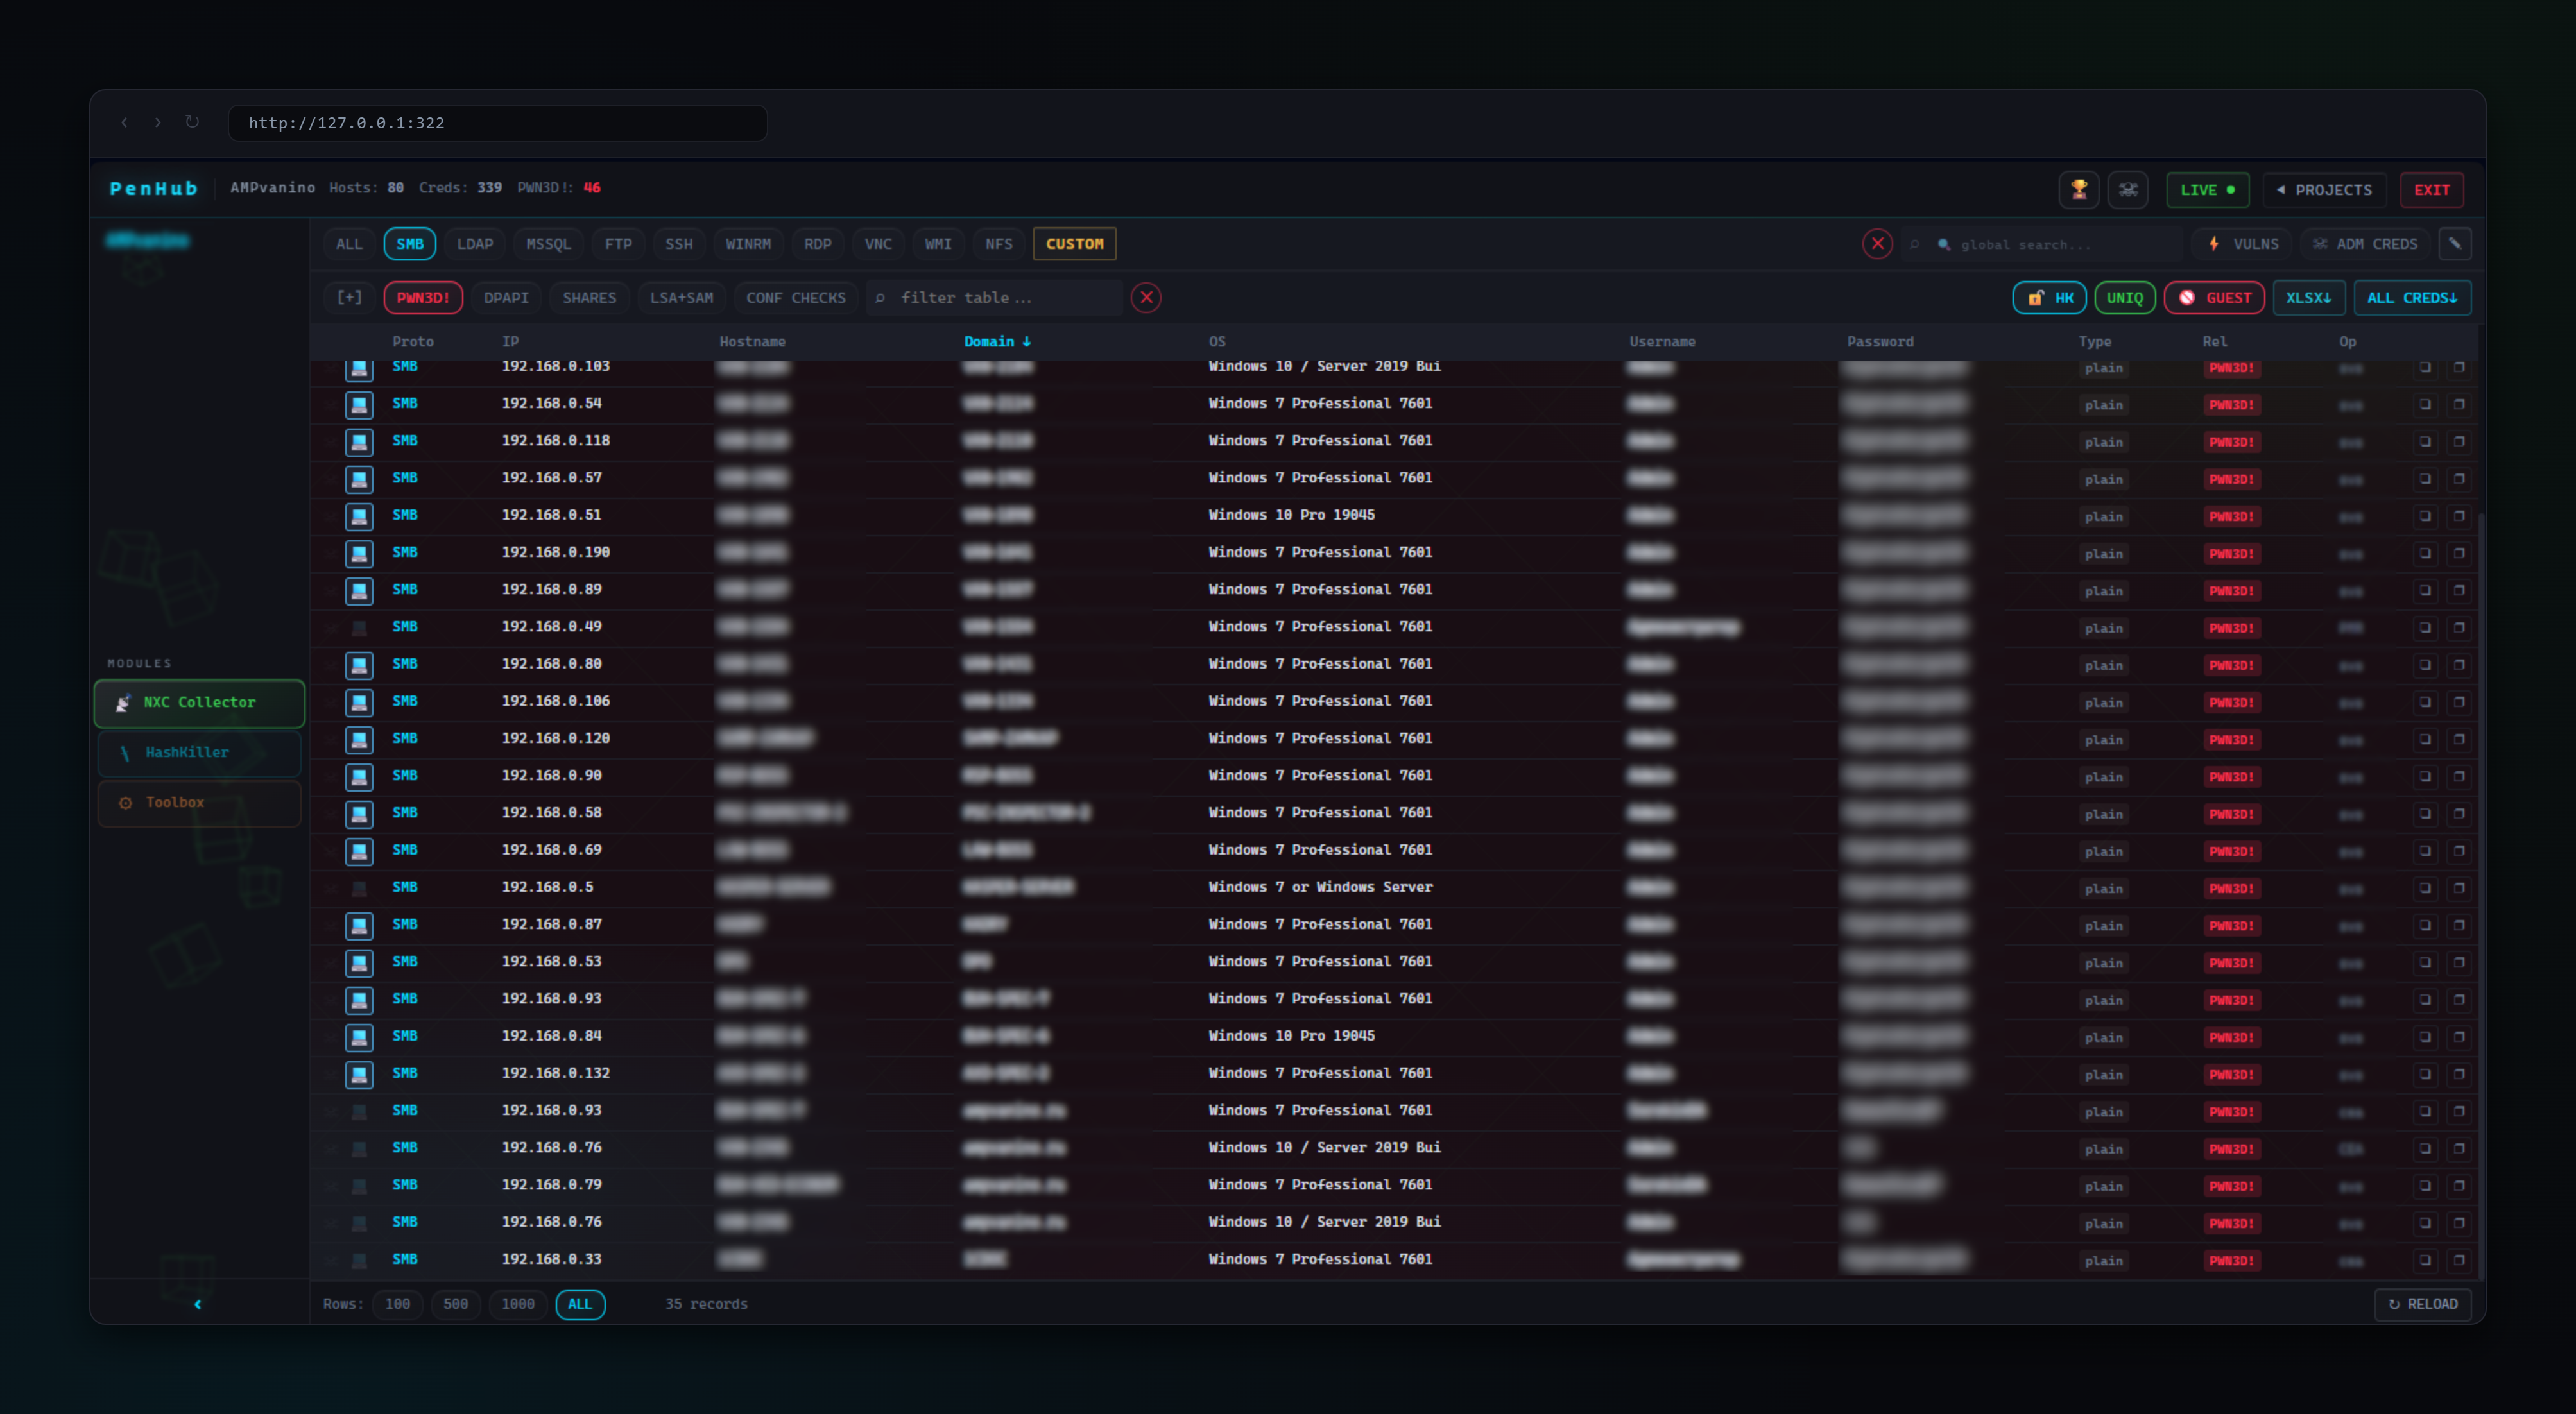
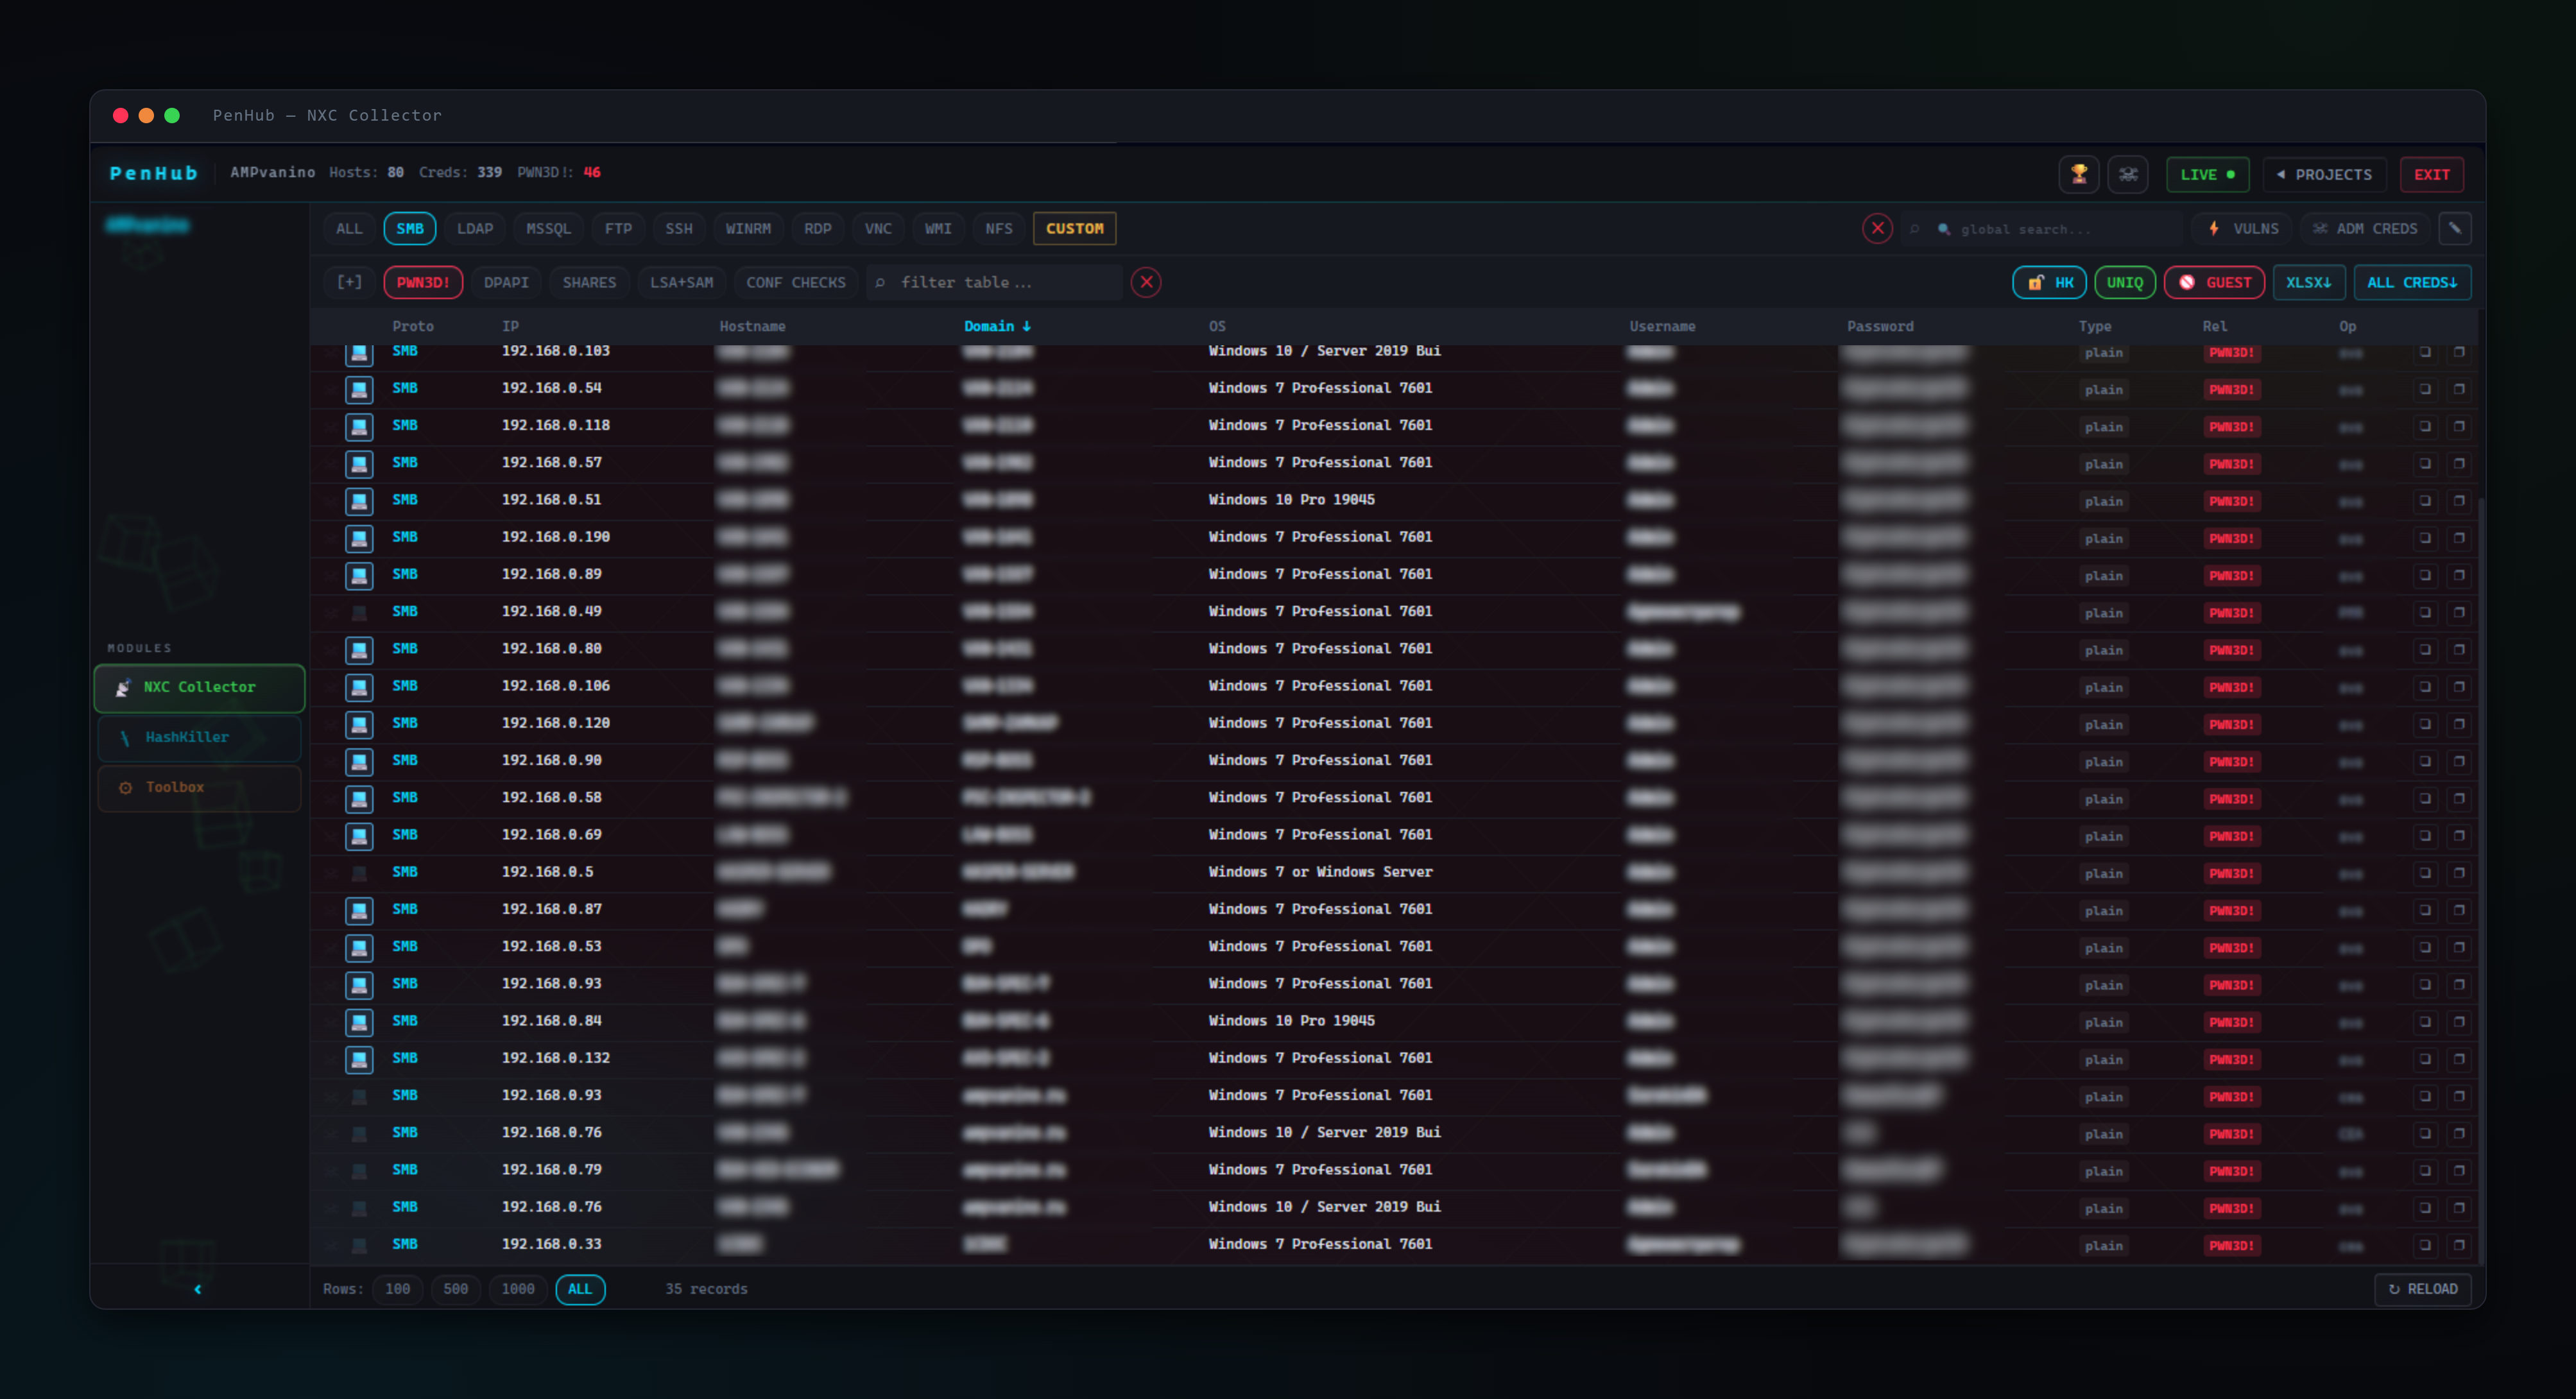
roll back

diff --git a/wiki/rus/Wiki - оглавление.md b/wiki/rus/Wiki - оглавление.md
@@ -3,30 +3,30 @@
 PenHub — платформа агрегации данных полученных в процессе пентеста, с помощью [NetExec](https://github.com/Pennyw0rth/NetExec). 
 
 **Начало**
-- [Быстрый старт](Быстрый%20старт.md)
-- [Понятия и глоссарий](Понятия%20и%20глоссарий.md)
-- [Пример работы](Пример%20работы.md)
+- [Быстрый старт](usage/Быстрый%20старт.md)
+- [Понятия и глоссарий](reference/Понятия%20и%20глоссарий.md)
+- [Пример работы](usage/Пример%20работы.md)
 
 **Установка**
-- [Установка — Сервер](Установка%20—%20Сервер.md)
-- [Установка — Клиент оператора](Установка%20—%20Клиент%20оператора.md)
+- [Установка — Сервер](install/Установка%20—%20Сервер.md)
+- [Установка — Клиент оператора](install/Установка%20—%20Клиент%20оператора.md)
 
 **Модули и отдельный функционал**
-- [Модуль — NXC Collector](Модуль%20—%20NXC%20Collector.md)
-- [Модуль — HashKiller](Модуль%20—%20HashKiller.md)
-- [Модуль — Toolbox](Модуль%20—%20Toolbox.md)
-- [Уведомления](Уведомления.md)
-- [Экспорты](Экспорты.md)
+- [Модуль — NXC Collector](modules/Модуль%20—%20NXC%20Collector.md)
+- [Модуль — HashKiller](modules/Модуль%20—%20HashKiller.md)
+- [Модуль — Toolbox](modules/Модуль%20—%20Toolbox.md)
+- [Уведомления](usage/Уведомления.md)
+- [Экспорты](usage/Экспорты.md)
 
 **Внутренние механизмы**
-- [Архитектура](Архитектура.md)
+- [Архитектура](reference/Архитектура.md)
 
 **Справочник**
-- [Справочник по скриптам оператора](Справочник%20по%20скриптам%20оператора.md)
-- [Адаптация к смене схемы БД NetExec](Адаптация%20к%20смене%20схемы%20БД%20NetExec.md)
-- [Справочник по функционалу VULNS](Справочник%20по%20функционалу%20VULNS.md)
-- [Описание уязвимостей и их устранение](Описание%20уязвимостей%20и%20их%20устранение.md)
-- [Решение проблем и FAQ](Решение%20проблем%20и%20FAQ.md)
+- [Справочник по скриптам оператора](reference/Справочник%20по%20скриптам%20оператора.md)
+- [Адаптация к смене схемы БД NetExec](reference/Адаптация%20к%20смене%20схемы%20БД%20NetExec.md)
+- [Справочник по функционалу VULNS](vulns/Справочник%20по%20функционалу%20VULNS.md)
+- [Описание уязвимостей и их устранение](vulns/Описание%20уязвимостей%20и%20их%20устранение.md)
+- [Решение проблем и FAQ](meta/Решение%20проблем%20и%20FAQ.md)
 
 # PenHub
 
@@ -35,7 +35,7 @@ PenHub — платформа агрегации данных полученны
 
 Работает как self-hosted сервер, который вы разворачиваете во внутренней/рабочей сети. Операторы на своих машинах запускают небольшой клиентский скрипт, который по api отправляет данные из баз данных nxc на ваш локальный сервер, при этом забирает обратно актуальную копию данных, полученных от других операторов.
 
-![[hero-project-view.png]]
+![](../images/hero-project-view.png)
 ---
 
 ## Какую задачу решает?

diff --git a/wiki/rus/modules/Модуль — NXC Collector.md b/wiki/rus/modules/Модуль — NXC Collector.md
@@ -2,7 +2,7 @@
 
 Главный модуль системы. Отображает, сортирует, фильтрует и управляет всем, что накоплено в рамках проекта.
 
-![[nxc-overview-annotated.png]]
+![](../../images/nxc-overview-annotated.png)
 
 ---
 
@@ -31,9 +31,9 @@
 Также в ряду 1:
 - **✏ MANAGE** — переключает модуль в состояние Manage Mode (ниже).
 - **Глобальный поиск** — contains-поиск сразу по *всей* БД проекта (все поля всех таблиц, кроме числовых ID и булевых флагов). При активации сбрасывает выбранный протокол и фильтры. Колонки результата: *(тип)* · Protocol · IP · Login · Password · Matched in · Details. Рядом кнопка сброса протокола, фильтров и поиска (переключатели GUEST / UNIQ / HK-bruted  *не* сбрасываются).
-- **CUSTOM** —  отображение учетных записей, добавленных с помощью модуля Toolbox, см. [[Модуль — Toolbox]].
+- **CUSTOM** —  отображение учетных записей, добавленных с помощью модуля Toolbox, см. [Модуль — Toolbox](Модуль%20—%20Toolbox.md).
 
-![[nxc-filters.png]]
+![](../../images/nxc-filters.png)
 ### Ряд 2 — фильтры (динамические)
 
 Кнопки фильтров меняются в соответствии с протоколом.
@@ -61,7 +61,7 @@
 - **Сортировка** — клик по заголовку колонки (A→Z / Z→A).
 - **Reload** – принудительное обновление табличных данных (применительно, когда LIVE-автообновление выключено).
 
-![[nxc-copy.png]]
+![](../../images/nxc-copy.png)
 
 ---
 
@@ -78,7 +78,7 @@
 
 Watchlist администраторов домена, загружаются в **[Модуль — Toolbox](Модуль%20—%20Toolbox.md)** (Domain Admin Watchlist).
 
-![[nxc-mark-as-domain-adm.png]]
+![](../../images/nxc-mark-as-domain-adm.png)
 
 ---
 
@@ -88,12 +88,12 @@ Watchlist администраторов домена, загружаются в
 
 Фильтры сгруппированы: **REMOTE** (SMBv1, Signing OFF, Spooler, MS17-010, SMBGhost, PrintNightmare, WebDAV, noPac, Zerologon), **COERCE** (PetitPotam, PrinterBug, DFSCoerce, ShadowCoerce) и **ADMIN-ONLY** проблемы конфигурации (WDigest, NTLMv1, RunAsPPL, UAC). Кнопка **AND**, при активации комбинирует выбранные фильтры по логике И (добавляет данные к выдаче).
 
-Что означает каждая уязвимость и как её устранить — см. **[Справочник по функционалу VULNS](Справочник%20по%20функционалу%20VULNS.md)** и **[Описание уязвимостей и их устранение](Описание%20уязвимостей%20и%20их%20устранение.md)**.
+Что означает каждая уязвимость и как её устранить — см. **[Справочник по функционалу VULNS](../vulns/Справочник%20по%20функционалу%20VULNS.md)** и **[Описание уязвимостей и их устранение](../vulns/Описание%20уязвимостей%20и%20их%20устранение.md)**.
 
 Пример, подготовка списка для relay-атак:
 
 *SMBv1* **AND** *Sighning OFF* **AND** *SPOOLER*:
-![[nxc-vulns-matrix.png]]
+![](../../images/nxc-vulns-matrix.png)
 ---
 
 ## Manage Mode ✏
@@ -118,9 +118,9 @@ Watchlist администраторов домена, загружаются в
 > Логика honeypot: после strike новые учетные записи, связанные со скрытым хостом, при будущих синхронизациях, автоматически скрываются. Учетные записи, индивидуально восстановленные кнопкой **+**, не трогаются.
 
 
-![[nxc-manage-mode.png]]
+![](../../images/nxc-manage-mode.png)
 
-![[nxc-manage-mode2.png]]
+![](../../images/nxc-manage-mode2.png)
 
 ---
 

diff --git a/wiki/rus/usage/Быстрый старт.md b/wiki/rus/usage/Быстрый старт.md
@@ -2,7 +2,7 @@
 
 ## 1. Запустить сервер
 
-На сервере (подробности — **[Установка — Сервер](Установка%20—%20Сервер.md)**):
+На сервере (подробности — **[Установка — Сервер](../install/Установка%20—%20Сервер.md)**):
 
 ```bash
 pip install fastapi uvicorn openpyxl
@@ -17,13 +17,13 @@ python3 server.py --host 0.0.0.0 --port 322 --password "StrongPasswordHere!"
 
 На странице **Projects** нажмите **+ NEW PROJECT** и введите имя (например, `organisationX`). Проект — это изолированный воркспейс; данные между проектами не пересекаются.
 
-![[projects-page.png]]
+![](../../images/projects-page.png)
 
 ---
 
 ## 3. Подключить оператора
 
-На машине оператора возьмите скрипты и конфиг из **Toolbox → Блок 3** (см. **[Установка — Клиент оператора](Установка%20—%20Клиент%20оператора.md)**), затем:
+На машине оператора возьмите скрипты и конфиг из **Toolbox → Блок 3** (см. **[Установка — Клиент оператора](../install/Установка%20—%20Клиент%20оператора.md)**), затем:
 
 ```bash
 ./nxc_collector --install                 # ставит скрипты + cron, после перезапустите шелл
@@ -56,9 +56,9 @@ nxc_collector -upd
 - Строка протоколов: нажмите **SMB**, затем суб-вкладку **PWN3D!**, чтобы увидеть админ-сессии.
 - **ALL CREDS ↓** — выгрузить все уникальные учетные данные в XLSX.
 
-![[nxc-collector-pwn3d.png]]
+![](../../images/nxc-collector-pwn3d.png)
 
-Подробнее: **[Модуль — NXC Collector](Модуль%20—%20NXC%20Collector.md)**.
+Подробнее: **[Модуль — NXC Collector](../modules/Модуль%20—%20NXC%20Collector.md)**.
 
 ---
 
@@ -66,7 +66,7 @@ nxc_collector -upd
 
 Откройте **HashKiller** и нажмите **⚡ SMART ENRICH**. Каждый plaintext-пароль, с которым вы авторизовались в рамках данного проекта, локально хэшируется и добавляется в вашу глобальную базу хэшей — так встретив его NT-хэш еще раз где-либо он автоматически «подберется». Кнопка **🕽 KILL THEM ALL** подставит уже имеющиеся в базе plaintext для любого хэша проекта, который вам встретился.
 
-Подробнее: **[Модуль — HashKiller](Модуль%20—%20HashKiller.md)**.
+Подробнее: **[Модуль — HashKiller](../modules/Модуль%20—%20HashKiller.md)**.
 
 ---
 
@@ -74,7 +74,7 @@ nxc_collector -upd
 
 Откройте **Toolbox** → и нажмите **↓ DOWNLOAD ARCHIVE**. Скачается ZIP-архив с парными файлами целей/логинов/паролей/хэшей, готовыми к credential-спрею nxc (примеры команд смотрите в  **Toolbox** → How to use). 
 
-Подробнее: **[Модуль — Toolbox](Модуль%20—%20Toolbox.md)** и **[Пример работы](Пример%20работы.md)**.
+Подробнее: **[Модуль — Toolbox](../modules/Модуль%20—%20Toolbox.md)** и **[Пример работы](Пример%20работы.md)**.
 
 ---
 
@@ -82,4 +82,4 @@ nxc_collector -upd
 
 Сортировка столбцов с данными, копирование нужной ячейки по нажатию, умное копирование, скрытие honeypot, отслеживание администраторов и другие функции уже доступны в PenHub. Изучайте и находите свои сценарии применения.
 
-[[Wiki - оглавление]]
+[Wiki - оглавление](../Wiki%20-%20оглавление.md)

diff --git a/wiki/rus/modules/Модуль — Toolbox.md b/wiki/rus/modules/Модуль — Toolbox.md
@@ -2,8 +2,8 @@
 
 Набор утилиты, которые взаимодействуют с другими модулями: ручной импорт учетных данных, watchlist доменных админов, экспорт списков для credential-спреев и конфигурация окружения оператора.
 
-![[toolbox-overview1.png]]
-![[toolbox-overview2.png]]
+![](../../images/toolbox-overview1.png)
+![](../../images/toolbox-overview2.png)
 
 ---
 
@@ -19,7 +19,7 @@
 Поля шаблона: Proto · IP · Port · Domain · **Login** · **Password** · Type · URL · Source · Comment.
 **Login ИЛИ Password обязательны** (как минимум, что-то одно); остальные поля опциональны.
 
-![[toolbox-custom-template.png]]
+![](../../images/toolbox-custom-template.png)
 
 
 > Используйте это для добавления учетных данных, добытых вне nxc (веб, брут и пррочее). Для nt хешей применяется логика Hashkiller (нужно вписать hash в поле type импортируемого шаблона).
@@ -36,7 +36,7 @@
 
 Пока для имени из watchlist не найден пароль, оно показывается серой **ghost-строкой** в представлении ADM CREDS в NXC Collector. Кнопка **👻 CLEAR ADM GHOSTS** (в Manage Mode NXC Collector) удаляет ghost записи из watchlist.
 
-![[toolbox-watchlist.png]]
+![](../../images/toolbox-watchlist.png)
 
 ---
 
@@ -61,7 +61,7 @@
 
 ## Блок 3 — OPERATOR ENVIRONMENT CONFIG
 
-Все необходимое для подготовки окружения оператора к работе (см. **[Установка — Клиент оператора](Установка%20—%20Клиент%20оператора.md)**).
+Все необходимое для подготовки окружения оператора к работе (см. **[Установка — Клиент оператора](../install/Установка%20—%20Клиент%20оператора.md)**).
 
 - **↓ DOWNLOAD SCRIPTS** — ZIP с `nxc_collector`, `nxce.py`, `nxc_updater.py`, `collector_dc.py`, `collector_hosts.py`. 
 Установка : `./nxc_collector --install`, затем перезапустите терминал. 
@@ -73,5 +73,5 @@
   Поле **OPERATOR** обязательно; IP, порт, пароль и workspace подставляются автоматически с сервера.
 - **COPY BLOODHOUND CONFIG STRING** — формирует команду `--bh-setup` для BloodHound (bh-ip обязательно; bh-login по умолч. `neo4j`, bh-pass `bloodhoundcommunityedition`, bh-port `7687`, bh-enable `true`). Настройки BloodHound сохраняются на сервере.
 
-![[toolbox-config-string.png]]
+![](../../images/toolbox-config-string.png)
 

diff --git a/wiki/rus/reference/Понятия и глоссарий.md b/wiki/rus/reference/Понятия и глоссарий.md
@@ -35,7 +35,7 @@
 **Honeypot / Strike** — пометка хоста как honeypot («strike», делается в Manage Mode) скрывает его и все связанные с ним учетные записи и отмечает вновь появившиеся учетные записи на нём скрытыми при будущих синхронизациях. Используется, чтобы не забивать таблицу false-positive авторизациями. Индивидуально (построчно) восстановленные учетные записи повторно не скрываются, что позволяет выделить одну валидную среди множества false-positive.
 
 **Hidden (скрыто)** — флаг мягкого скрытия на учетных записях, хостах и записях DPAPI. Скрытые элементы исчезают из обычных представлений (и из pull оператора), но не удаляются; убрать их из скрытых можно в Manage Mode.
-Подробнее: **[Модуль — NXC Collector](Модуль%20—%20NXC%20Collector.md)**.
+Подробнее: **[Модуль — NXC Collector](../modules/Модуль%20—%20NXC%20Collector.md)**.
 
 ---
 
@@ -46,7 +46,7 @@
 **Warning-пара** — когда один и тот же хэш в базе каким либо образом сопоставлен двум разным plaintext, обе пары сохраняются с флагом `warning=true`, чтобы вы разрешили конфликт.
 
 **Хэш пустого пароля** — NT-хэш `31D6CFE0D16AE931B73C59D7E0C089C0` — это хэш пустого пароля. PenHub хранит его как литерал `<empty_password>` везде (и сервер, и сторона оператора нормализуют это одинаково). 
-Подробнее: **[Модуль — HashKiller](Модуль%20—%20HashKiller.md)**.
+Подробнее: **[Модуль — HashKiller](../modules/Модуль%20—%20HashKiller.md)**.
 
 
 ---
@@ -54,7 +54,7 @@
 ## Понятия об уязвимостях
 
 **Tri-state-находка** — каждая проверка уязвимости на хосте имеет одно из трёх состояний: **YES** (уязвимо), **no** (чисто) или **—** (нет данных / проверку не удалось выполнить). **`—` что по своей сути не означает «безопасно».**  
-Подробнее: **[Справочник по функционалу VULNS](Справочник%20по%20функционалу%20VULNS.md)**.
+Подробнее: **[Справочник по функционалу VULNS](../vulns/Справочник%20по%20функционалу%20VULNS.md)**.
 
 ---
 
@@ -76,4 +76,4 @@
 | **HashKiller**    | 🗡     | Глобальная база NTLM-хэш↔plaintext; взлом и обогащение.                                                      |
 | **Toolbox**       | ⚙      | Произвольные импорты, экспорт-списки для спрея, конфиг окружения оператора.                                  |
 
-Продолжить ознакомление: **[[Wiki - оглавление]]** 
+Продолжить ознакомление: **[Wiki - оглавление](../Wiki%20-%20оглавление.md)** 

diff --git a/wiki/rus/usage/Пример работы.md b/wiki/rus/usage/Пример работы.md
@@ -22,7 +22,7 @@
 
 ## Фаза 1 — Старт
 
-1. **Запустить/проверить сервер** — работает и доступен. (**[Установка — Сервер](Установка%20—%20Сервер.md)**)
+1. **Запустить/проверить сервер** — работает и доступен. (**[Установка — Сервер](../install/Установка%20—%20Сервер.md)**)
 2. **Создать проект** на странице Projects.
 3. **Операторам - скачать скрипты (при необходимости) + конфиг** из Toolbox (DOWNLOAD SCRIPTS + COPY CONFIG STRING).
 4. **Если есть** — **Добавить список Domain Admin Watchlist (из AD, например)**, используя Toolbox, чтобы PenHub их помечал и уведомлял, как только учетные данные найдутся.
@@ -35,7 +35,7 @@
 
 В браузере:
 - Следите за счётчиками в шапке и **колокольчиками уведомлений** 🏆 / ☠ по новым захватам и всплывающим доменным админам. (**[Уведомления](Уведомления.md)**)
-- Просматривайте учетные данные и хосты по протоколам; помечайте **доменных/локальных админов**; скрывайте при необходимости лишние хосты в Manage Mode. (**[Модуль — NXC Collector](Модуль%20—%20NXC%20Collector.md)**)
+- Просматривайте учетные данные и хосты по протоколам; помечайте **доменных/локальных админов**; скрывайте при необходимости лишние хосты в Manage Mode. (**[Модуль — NXC Collector](../modules/Модуль%20—%20NXC%20Collector.md)**)
 - Вносите учетные записи из внешних источников (полученные не из nxc) через Toolbox **Custom Import**.
 
 Для принудительной синхронизации: `nxc_collector -upd`.
@@ -51,7 +51,7 @@
 2. **🕽 KILL THEM ALL** — подставить plaintext соответствующим хэшам проекта.
 3. **↓ HASHES.TXT** → скачать файл с уникальными неподобранными хэшами, для hashcat → после подбора импортировать результаты в блок IMPORT HashKiller.
 
-Взломанный plaintext сразу появляется в NXC Collector (фильтр **HK-bruted**) и обогащает списки для спрея. (**[Модуль — HashKiller](Модуль%20—%20HashKiller.md)**)
+Взломанный plaintext сразу появляется в NXC Collector (фильтр **HK-bruted**) и обогащает списки для спрея. (**[Модуль — HashKiller](../modules/Модуль%20—%20HashKiller.md)**)
 
 ---
 
@@ -67,7 +67,7 @@
 
 ## Фаза 5 — Отчёт и завершение
 
-- Используйте экспорт XLSX по  **VULNS** и **[Описание уязвимостей и их устранение](Описание%20уязвимостей%20и%20их%20устранение.md)** как приложение к отчету по уязвимостям.
+- Используйте экспорт XLSX по  **VULNS** и **[Описание уязвимостей и их устранение](../vulns/Описание%20уязвимостей%20и%20их%20устранение.md)** как приложение к отчету по уязвимостям.
 - Выгрузите итоговую таблицу учетных данных (**ALL CREDS ↓**).
 - **Архивируйте** проект по завершении — это замораживает его (синхронизация больше не принимается) и автоматически запускает финальный SMART Enrich, чтобы найденные plaintext пароли сохранились в глобальной базе хэшей для будущих работ.
 - Проекты позже можно переместить в **Recycle** (мягкое удаление, имя зарезервировано) или в итоге окончательно удалить.

diff --git a/wiki/rus/install/Установка — Сервер.md b/wiki/rus/install/Установка — Сервер.md
@@ -35,7 +35,7 @@ python3 server.py --host 0.0.0.0 --port 322 --password "ВыберитеНадё
 
 Это всё. При первом старте сервер создаёт `collector.db`, `hashkiller.db` и каталог `hk_inbox/`, после слушает обращения.
 
-![[server-startup-terminal.png]]
+![](../../images/server-startup-terminal.png)
 
 ---
 
@@ -57,9 +57,9 @@ python3 server.py --host 0.0.0.0 --port 322 --password "ВыберитеНадё
 
 Откройте `http://<ip-сервера>:<порт>/` в браузере и введите ключ доступа.
 
-![[login-page.png]]
+![](../../images/login-page.png)
 
-После входа вы попадёте на страницу **Projects**. Создайте первый проект — см. **[Быстрый старт](Быстрый%20старт.md)**.
+После входа вы попадёте на страницу **Projects**. Создайте первый проект — см. **[Быстрый старт](../usage/Быстрый%20старт.md)**.
 
 ---
 

diff --git a/wiki/rus/modules/Модуль — HashKiller.md b/wiki/rus/modules/Модуль — HashKiller.md
@@ -7,7 +7,7 @@
 
 **Поля в БД:** `hash`, `plaintext`, `SMART` (bool), `warning` (bool). Верхняя полоса показывает три счётчика: **pairs** / **smart** / **⚠ warning**.
 
-![[hashkiller-overview.png]]
+![](../../images/hashkiller-overview.png)
 
 Страница состоит из четырёх блоков.
 
@@ -80,7 +80,7 @@
 - **Первичное построение — только один раз:** импорт словаря на **120 млн паролей** через **💥 RAM-KILLER** и построение индекса заняли **~6 часов на 32 ГБ RAM**.
 - **Каждый запуск после этого:** **🕽 KILL THEM ALL** — поиск и «расшифровка» по тем же **120 млн пар** — идёт со скоростью примерно **500 хэшей в секунду на SSD**. В рамках проекта мы получаем несколько тысяч хешей с домена или из lsa/sam и за несколько секунд перебираем все эти пары по словарю на 120 000 000 слов. 
 
-![[hashkiller-stat.png]]
+![](../../images/hashkiller-stat.png)
 
 ---
 

diff --git a/wiki/rus/reference/Архитектура.md b/wiki/rus/reference/Архитектура.md
@@ -17,7 +17,7 @@
 ```
 
 - **Сервер**: Python / FastAPI / SQLite (WAL) + ванильный JS-SPA. Без бандлера, без фреймворка, без сборки. Два файла SQLite.
-- **Клиент оператора**: три скрипта. Описаны в **[Установка — Клиент оператора](Установка%20—%20Клиент%20оператора.md)** и **[Справочник по скриптам оператора](Справочник%20по%20скриптам%20оператора.md)**.
+- **Клиент оператора**: три скрипта. Описаны в **[Установка — Клиент оператора](../install/Установка%20—%20Клиент%20оператора.md)** и **[Справочник по скриптам оператора](Справочник%20по%20скриптам%20оператора.md)**.
 
 ---
 
@@ -44,7 +44,7 @@ PenHub Shell
 
 UI lazy-модулей доставляется через `GET /api/shell/module/{id}/ui` (под авторизацией).
 
-![[shell-sidebar-modules.png]]
+![](../../images/shell-sidebar-modules.png)
 
 ---
 

diff --git a/wiki/rus/usage/Экспорты.md b/wiki/rus/usage/Экспорты.md
@@ -12,7 +12,7 @@
 
 Опция «UNIQ» дедуплицирует по `domain+login+password`, предпочитая plaintext хэшу и admin — loggedin. Фильтр **HK-bruted**, когда включён, подставляет известный plaintext вместо хэша перед экспортом — так в таблице оказываются взломанные пароли, а не хэши.
 
-![[export-allcred-xlsx.png]]
+![](../../images/export-allcred-xlsx.png)
 
 ---
 
@@ -66,4 +66,4 @@ nxce --brute ./spray      # пишет парные файлы логинов/п
 
 nxce позволяет делать гибкие выгрузки (по логину, паролю, ip-адресу и т.д.) изучите help.
 
-`nxce --brute` повторяет функционал `DOWNLOAD ARCHIVE` в Toolbox: пишет `logins_P_brut.txt` / `pass_for_brute.txt` (plaintext) и `logins_H_brut.txt` / `hashes_for_brute.txt` (NT-хэши), каждая пара одинаковой длины, и печатает в консоль готовую команду `nxc … --no-bruteforce --continue-on-success`. См. **[Справочник по скриптам оператора](Справочник%20по%20скриптам%20оператора.md)**.
+`nxce --brute` повторяет функционал `DOWNLOAD ARCHIVE` в Toolbox: пишет `logins_P_brut.txt` / `pass_for_brute.txt` (plaintext) и `logins_H_brut.txt` / `hashes_for_brute.txt` (NT-хэши), каждая пара одинаковой длины, и печатает в консоль готовую команду `nxc … --no-bruteforce --continue-on-success`. См. **[Справочник по скриптам оператора](../reference/Справочник%20по%20скриптам%20оператора.md)**.